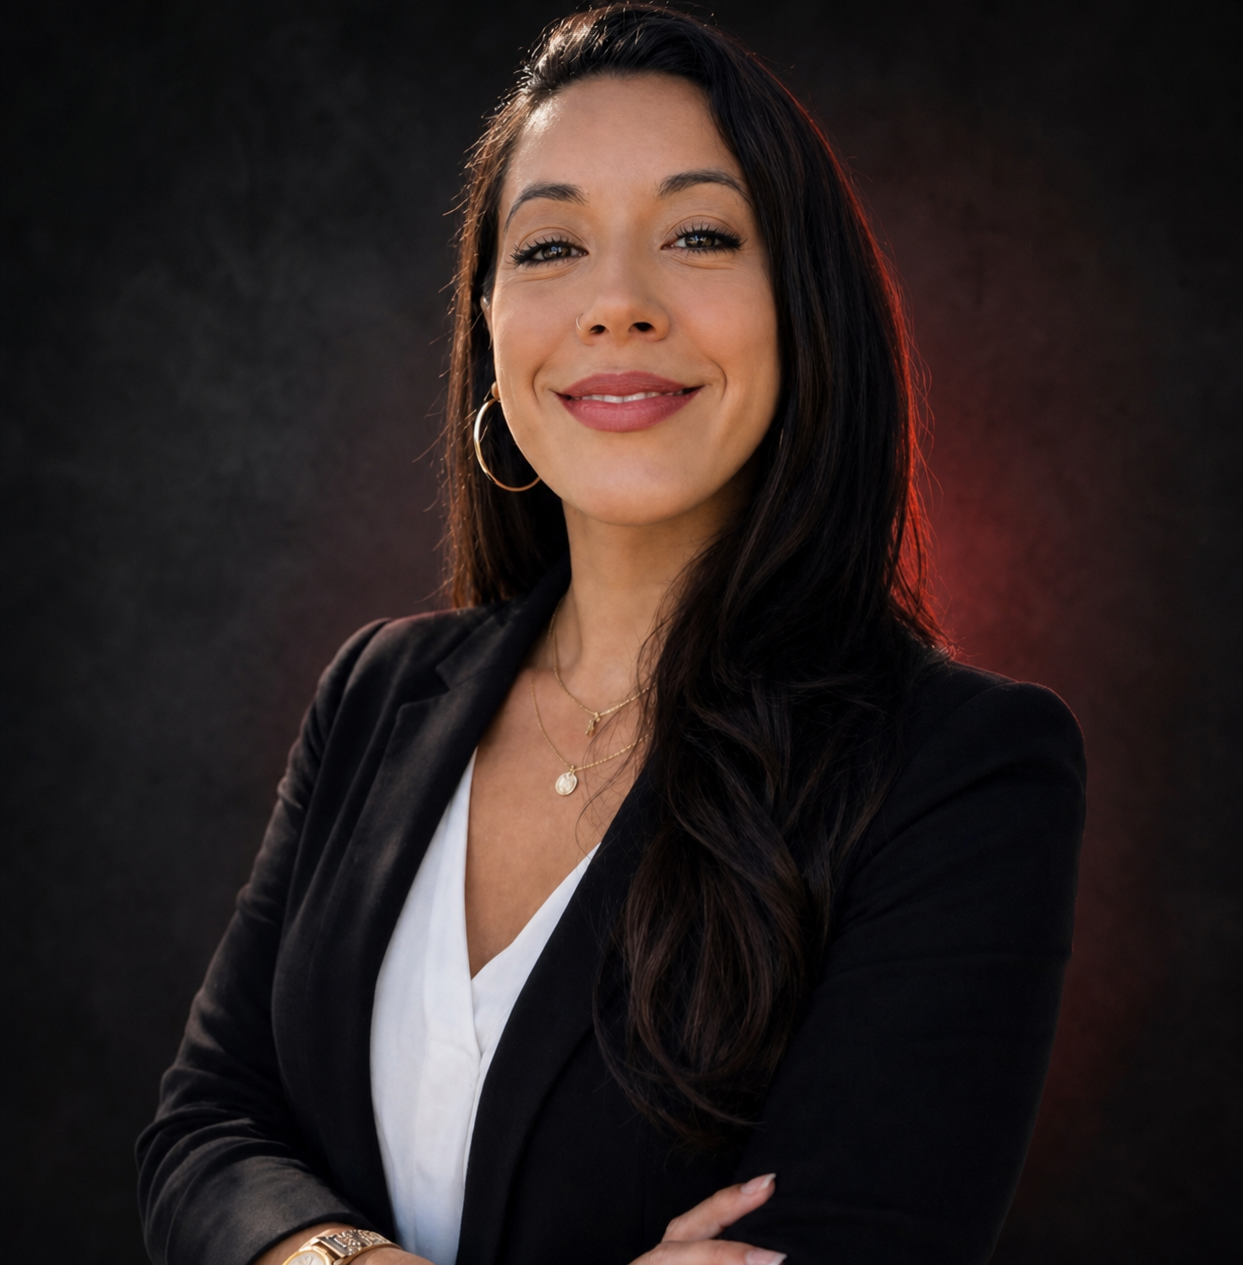
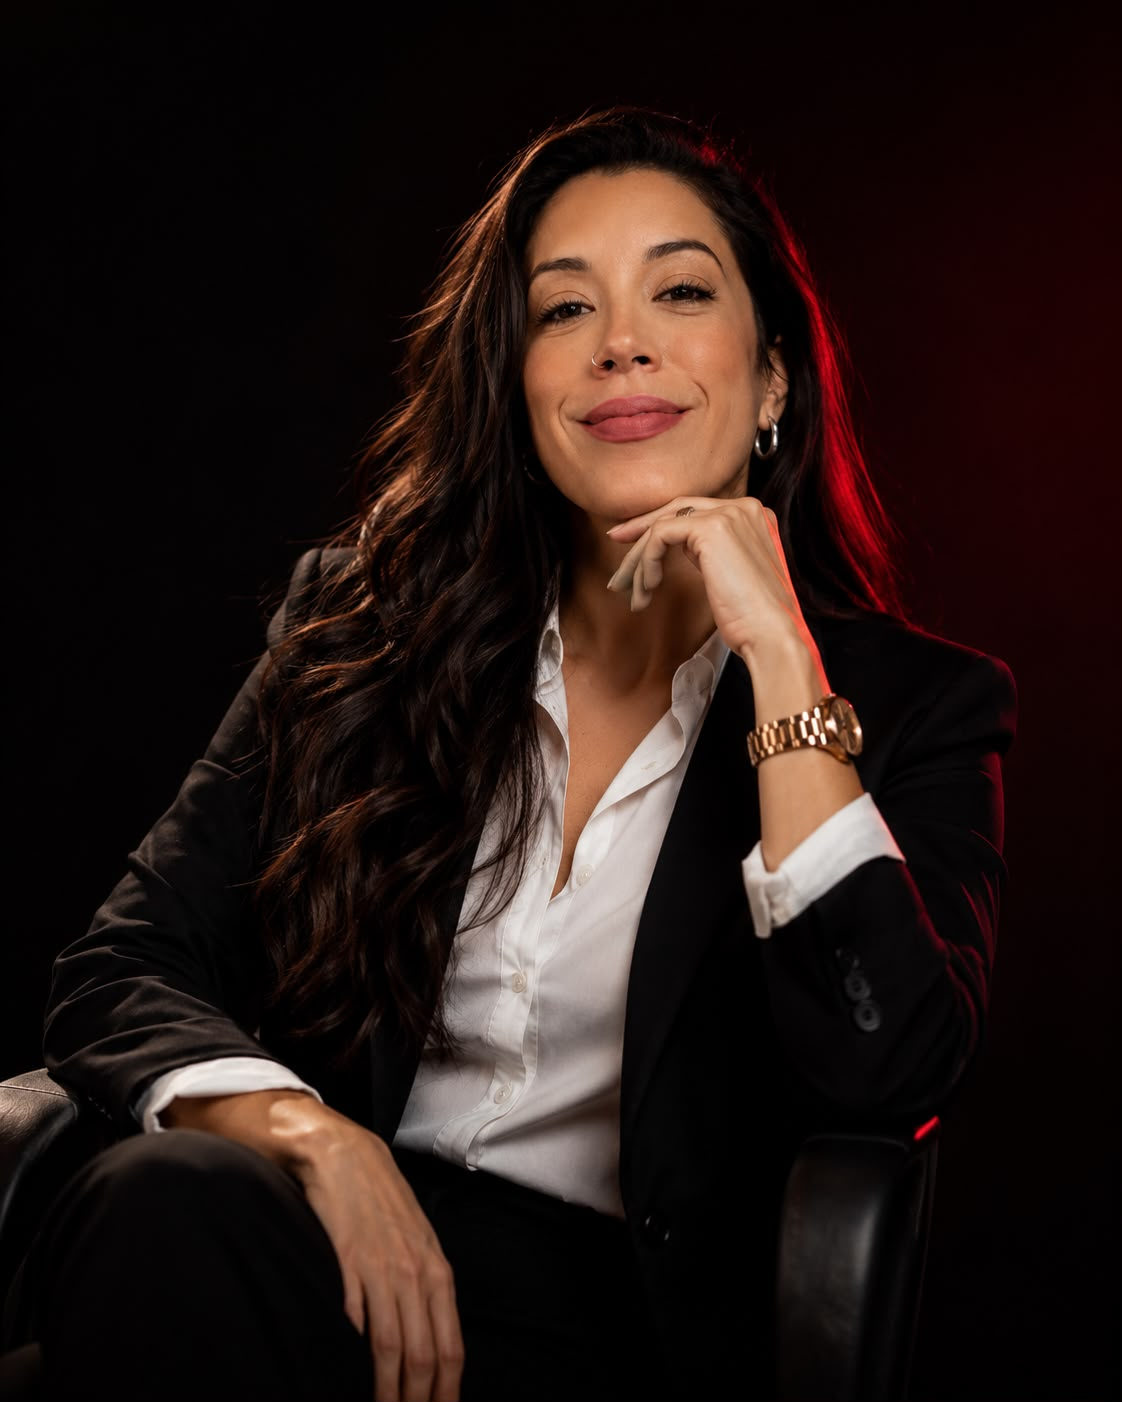
Actualiza retrato de Mi historia

diff --git a/src/assets/tamara-site/index.html b/src/assets/tamara-site/index.html
@@ -243,7 +243,7 @@
   /* ABOUT */
   .about-grid{display:grid;grid-template-columns:0.85fr 1.15fr;gap:70px;align-items:center;}
   .about-photo{position:relative;}
-  .about-photo img{width:100%;border-radius:6px;filter:grayscale(15%) contrast(1.05);display:block;}
+  .about-photo img{width:100%;border-radius:6px;display:block;}
   .about-photo::before{
     content:'';position:absolute;top:22px;left:-22px;width:100%;height:100%;
     border:2px solid var(--red);border-radius:6px;z-index:-1;
